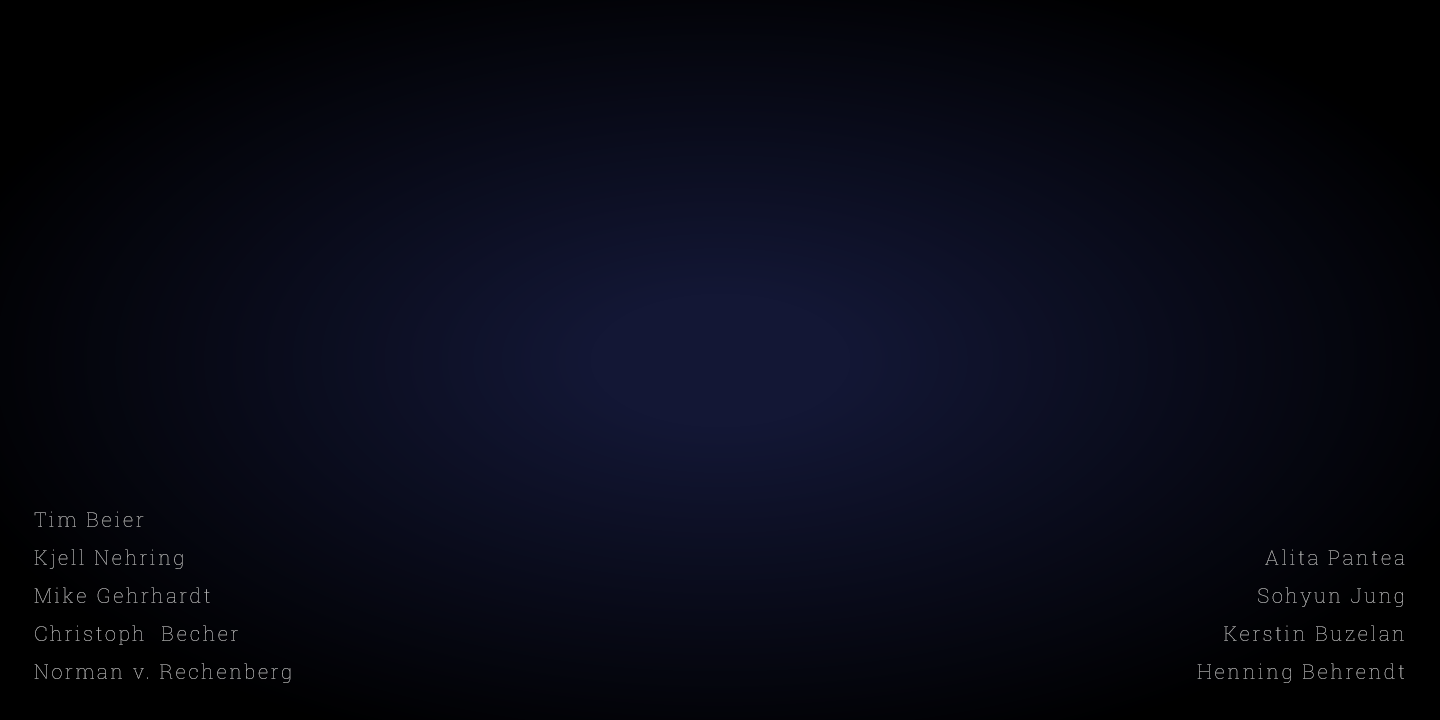
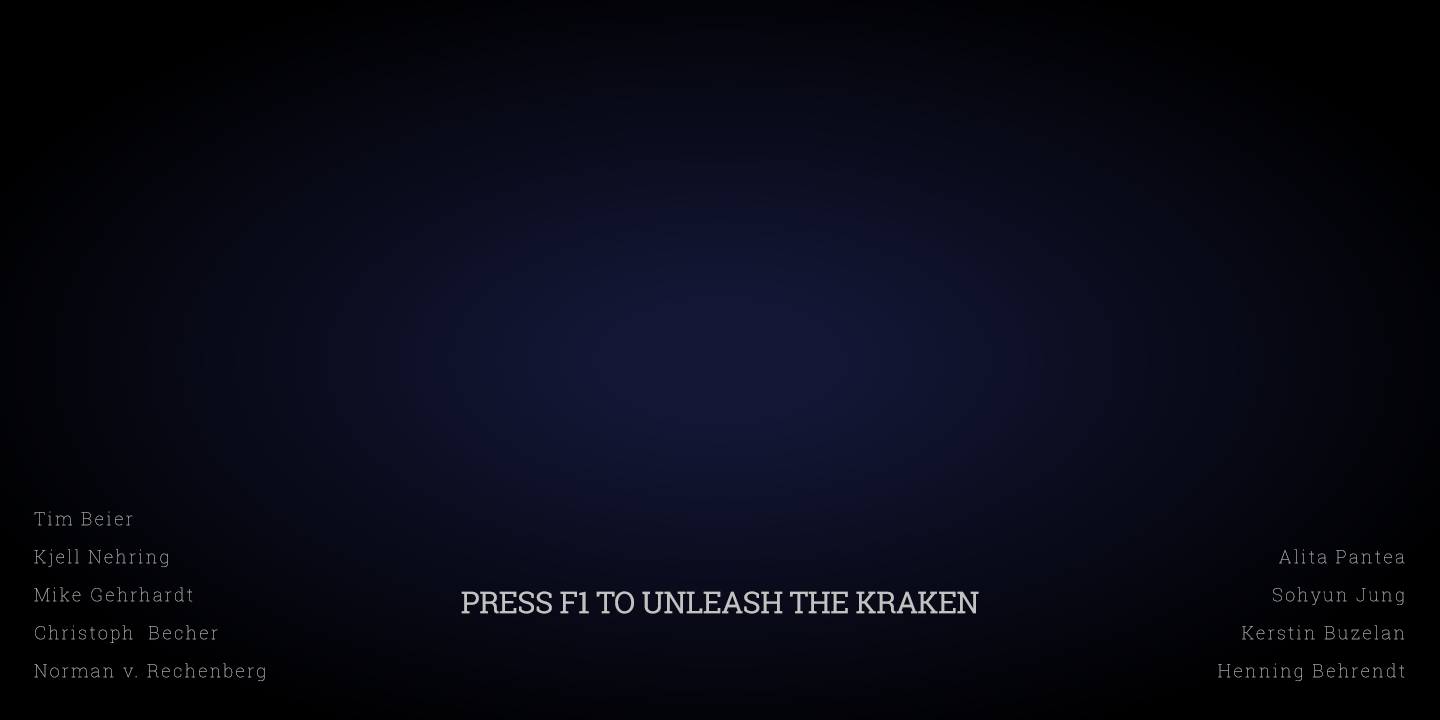
update

diff --git a/Octopussy/mainmenu.ts b/Octopussy/mainmenu.ts
@@ -8,7 +8,7 @@ module Octopussy {
         preload() {
 
             this.load.image('mainmenu_background', 'assets/mainmenu/img_background.png');
-            this.load.image('mainmenu_title', 'assets/mainmenu/img_title_0.png');
+            this.load.spritesheet('mainmenu_title', 'assets/mainmenu/img_title.png', 600, 310, 5);
             this.load.audio('sound_title','assets/mainmenu/sounds/title.wav');
 
 
@@ -20,7 +20,7 @@ module Octopussy {
             this.sound_title = this.add.audio('sound_title', 1, true);
 
             this.add.sprite(0, 0, 'mainmenu_background');
-            this.add.sprite(0, 0, 'mainmenu_title');
+            this.add.sprite(this.game.world.centerX - 300, this.game.world.centerY - 230, 'mainmenu_title');
             this.sound_title.play('', 0, 1, true);
 
             this.game.input.keyboard.onDownCallback = function(e: KeyboardEvent) {

diff --git a/Octopussy/levelData.ts b/Octopussy/levelData.ts
@@ -16,7 +16,7 @@ module Octopussy {
 				'##41 >++< >+++< |###',
                 '##|TX>++< >+++< |###',
                 '#4^R 3^^< 3^^^1 32##',
-                '#|S X XB|X     X |##',
+                '#|S E XB|X     X |##',
                 '#3---2 L1 4----R |##',
                 '#####|X  X|TX   X32#',
                 '##4-V< 42T>2 4V2 T|#',

diff --git a/Octopussy/level.ts b/Octopussy/level.ts
@@ -561,6 +561,6 @@ module Octopussy {
                 this.player.animations.play('down');
                 this.startUpdatePosition(Direction.Down);
             }
-        }   
+        } 
     }
 }
